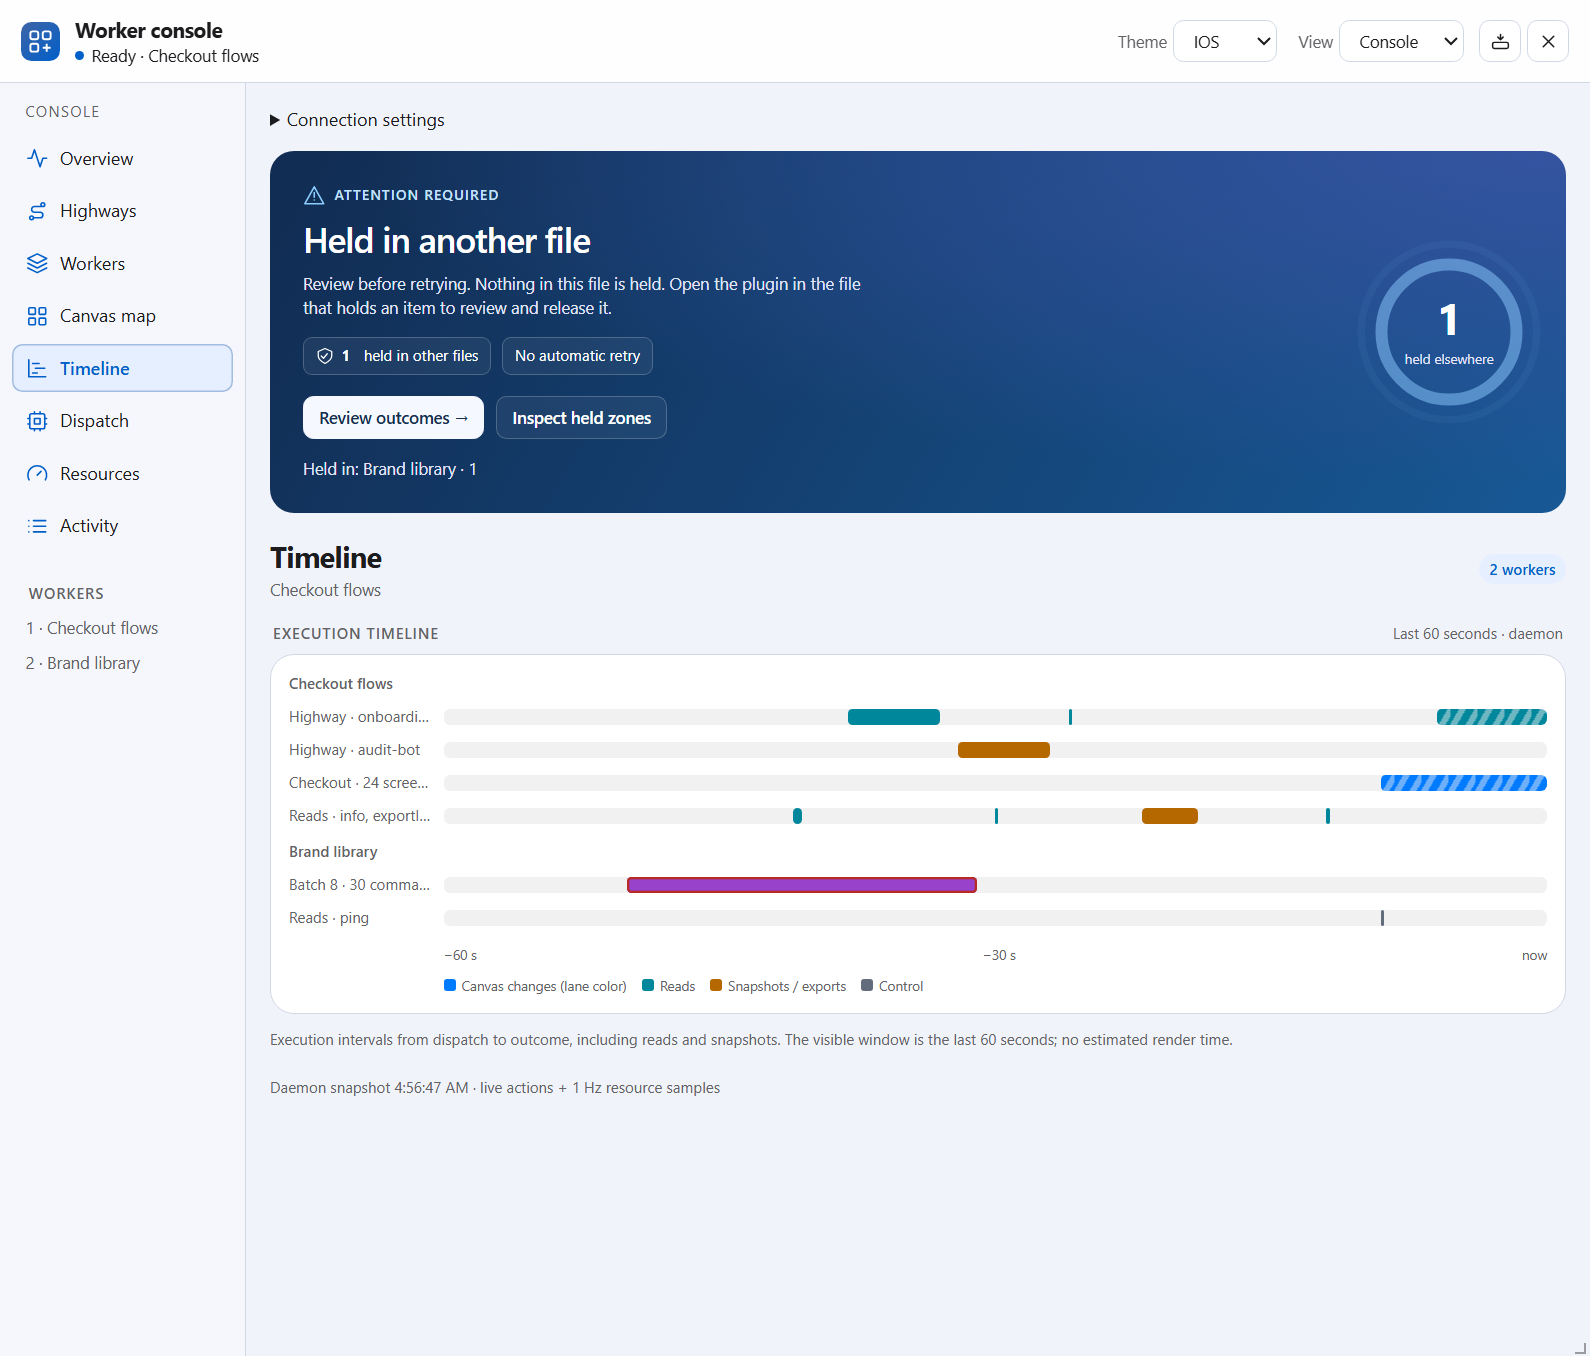
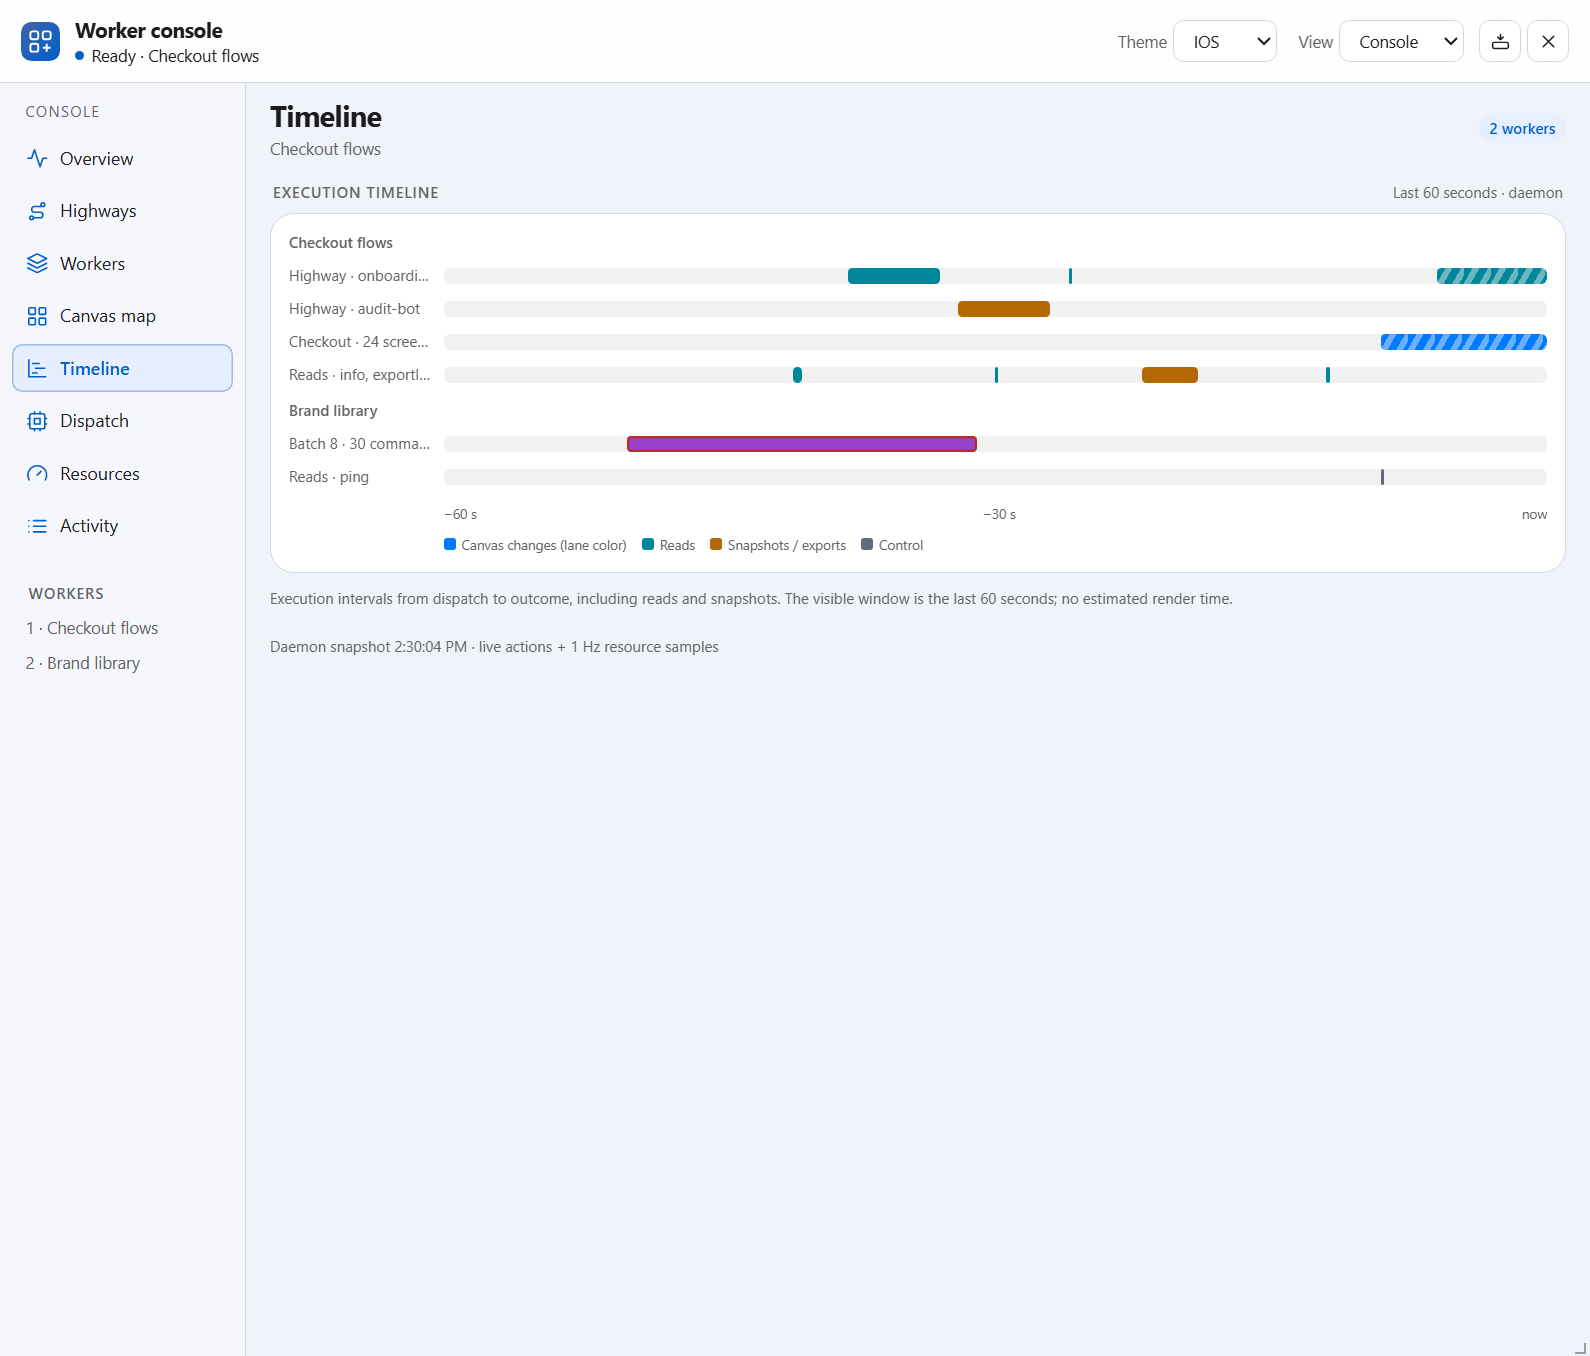
docs: console screenshots render the same way every time
The scrolled console views (Highways, Canvas map, Timeline, Activity)
should open on their section heading, with the attention panel for the
sample's held zone scrolled out of view; Overview shows that panel on
purpose. The scroll raced the console's paint: headless Chrome runs
requestAnimationFrame at unpredictable points of the virtual time
budget, so the stub often scrolled before the panel existed and the
banner stayed on top, cutting off the Brand library card on the map.
Timeline was too short to scroll at all. This happened in 3.0.0 too.

The stub now paints on a 16 ms timer, leaves room below short panels,
starts the clock at a fixed instant and formats in en-US, UTC. render.mjs
captures with reduced motion and whole-tile raster, which removes the
stripe phase and 1-level edge jitter on the half-pixel card rings.
Ten re-renders in a row are byte-identical.

diff --git a/docs/console-stub.js b/docs/console-stub.js
@@ -2,6 +2,25 @@
 // the console can be photographed with sample data. It replaces WebSocket and the
 // parent window inside the rendered copy only; it never opens a real connection.
 (() => {
+  // Same pixels on every run and every machine: the clock starts at a fixed instant
+  // (virtual time advances it), and times and numbers format in en-US, UTC.
+  const RealDate = Date, shift = RealDate.UTC(2026, 9, 16, 14, 30) - RealDate.now();
+  for (const m of ['toLocaleString', 'toLocaleDateString', 'toLocaleTimeString']) {
+    const real = RealDate.prototype[m];
+    RealDate.prototype[m] = function (locales, options) { return real.call(this, locales || 'en-US', { timeZone: 'UTC', ...options }); };
+  }
+  const realNumber = Number.prototype.toLocaleString;
+  Number.prototype.toLocaleString = function (locales, options) { return realNumber.call(this, locales || 'en-US', options); };
+  window.Date = class extends RealDate {
+    constructor(...args) { super(...(args.length ? args : [RealDate.now() + shift])); }
+    static now() { return RealDate.now() + shift; }
+  };
+  // Headless Chrome runs animation frames at unpredictable points of the virtual time
+  // budget, so a requestAnimationFrame paint could land after the scroll below. A 16 ms
+  // timer runs in virtual time, like every other step of the scene.
+  window.requestAnimationFrame = callback => setTimeout(() => callback(Date.now()), 16);
+  window.cancelAnimationFrame = id => clearTimeout(id);
+
   const scene = Object.fromEntries(new URLSearchParams(location.hash.slice(1)));
   const mode = scene.mode || 'console', theme = scene.theme || 'ios', started = Date.now();
   const deliver = msg => setTimeout(() => window.dispatchEvent(new MessageEvent('message', { data: { pluginMessage: msg }, origin: 'https://www.figma.com' })), 0);
@@ -81,11 +100,15 @@
   }
 
   let sequence = 0, applied = false;
-  // Scroll the console's main column so the section heading sits at the top. Repeated on
-  // every sample because the panel paints asynchronously after showPanel().
+  // Scroll the console's main column so the section heading sits at the top, above the
+  // attention panel the sample's held zone raises (the overview shows that panel). Repeated
+  // on every sample because the panel paints asynchronously after showPanel(). Room below
+  // the content lets a short panel (Timeline) scroll its heading up as well.
   function scrollScene() {
     const target = scene.scroll && document.getElementById(scene.scroll), main = document.querySelector('main');
-    if (target && main) main.scrollTop += target.getBoundingClientRect().top - main.getBoundingClientRect().top - 8;
+    if (!target || !main) return;
+    main.style.paddingBottom = main.clientHeight + 'px';
+    main.scrollTop += target.getBoundingClientRect().top - main.getBoundingClientRect().top - 8;
   }
   function apply() {
     if (!applied) {
